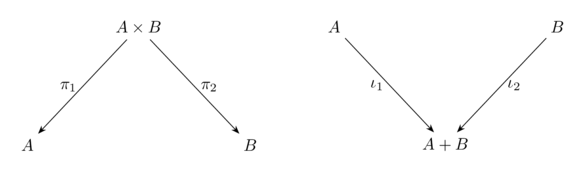
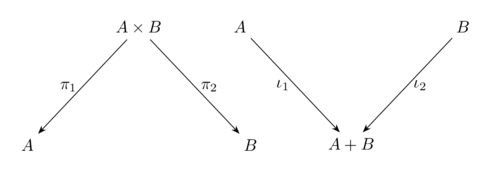
wip

diff --git a/.readme/tex/product_coproduct.tex b/.readme/tex/product_coproduct.tex
@@ -18,7 +18,7 @@
   \draw[->] (m-1-2) -- (m-2-1) node[midway,left] {$\pi_1$};
   \draw[->] (m-1-2) -- (m-2-3) node[midway,right] {$\pi_2$};
 
-  \begin{scope}[xshift=6.5cm] % adjust spacing as needed
+  \begin{scope}[xshift=4.5cm] % adjust spacing as needed
     \matrix (m) [matrix of nodes,
                  row sep=2cm,
                  column sep=1.5cm,

diff --git a/.readme/tex/fold_unfold.tex b/.readme/tex/fold_unfold.tex
@@ -22,7 +22,7 @@
   \draw[->] (m1-1-2) -- (m1-2-2) node[midway,right] {$h$};
 
   % === Right diagram: Final coalgebra ===
-  \begin{scope}[xshift=6.5cm] % adjust spacing as needed
+  \begin{scope}[xshift=4.5cm] % adjust spacing as needed
     \matrix (m2) [matrix of nodes,
                   row sep=2cm,
                   column sep=2.5cm,
